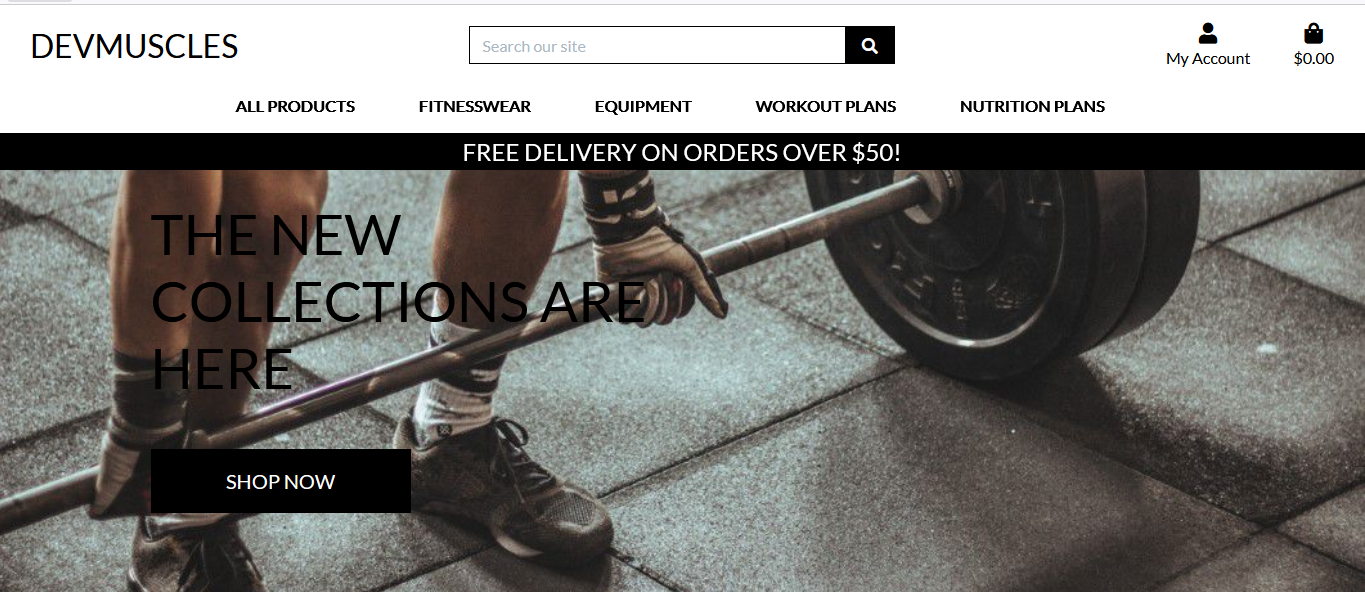
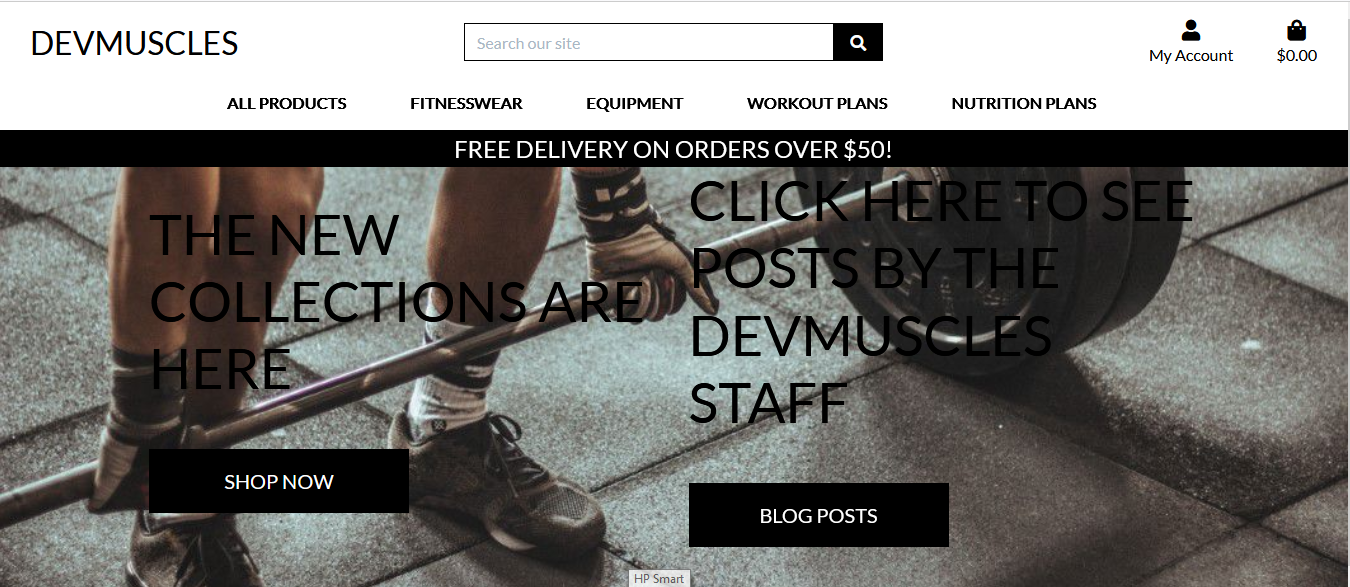
Completed the intro of the README file

diff --git a/README.md b/README.md
@@ -20,6 +20,8 @@ The project has a couple of pages:
 
 5:Page where the admin of the site can add or edit categories.
 
+6:Page where the admin of the site can post blogs for users to read.
+
 [Link to website](https://milestone-project-four-muscles.herokuapp.com/) here to see the website.
 
 ![Website](images/DevMuscles.png)
